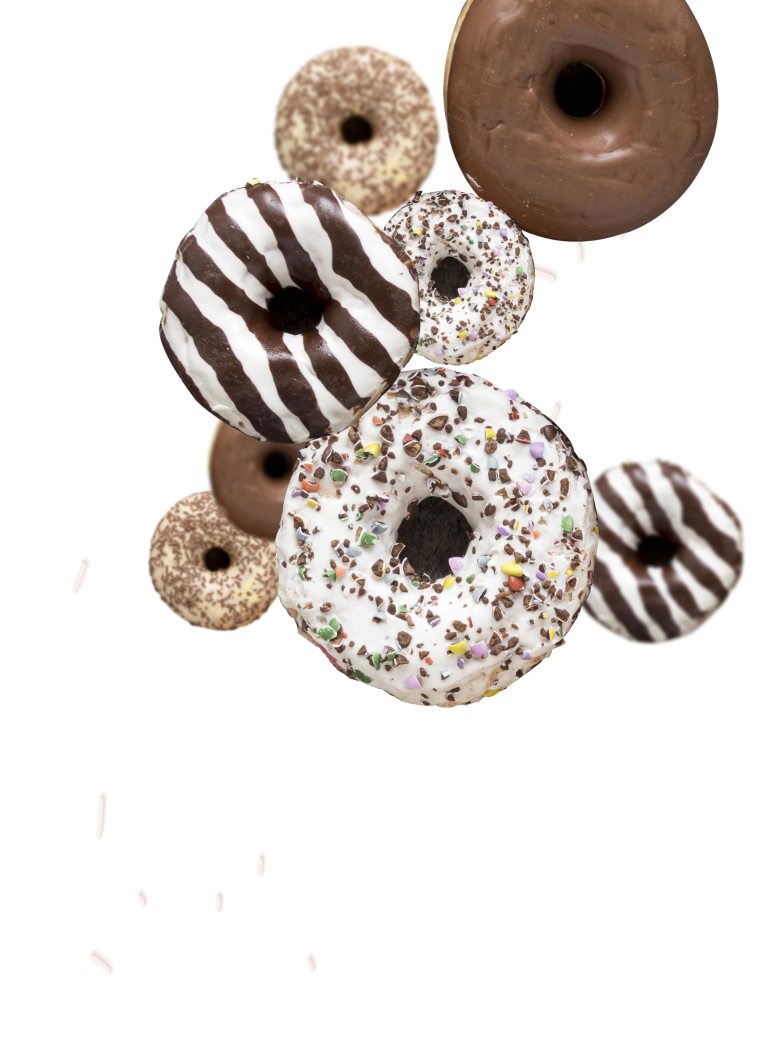
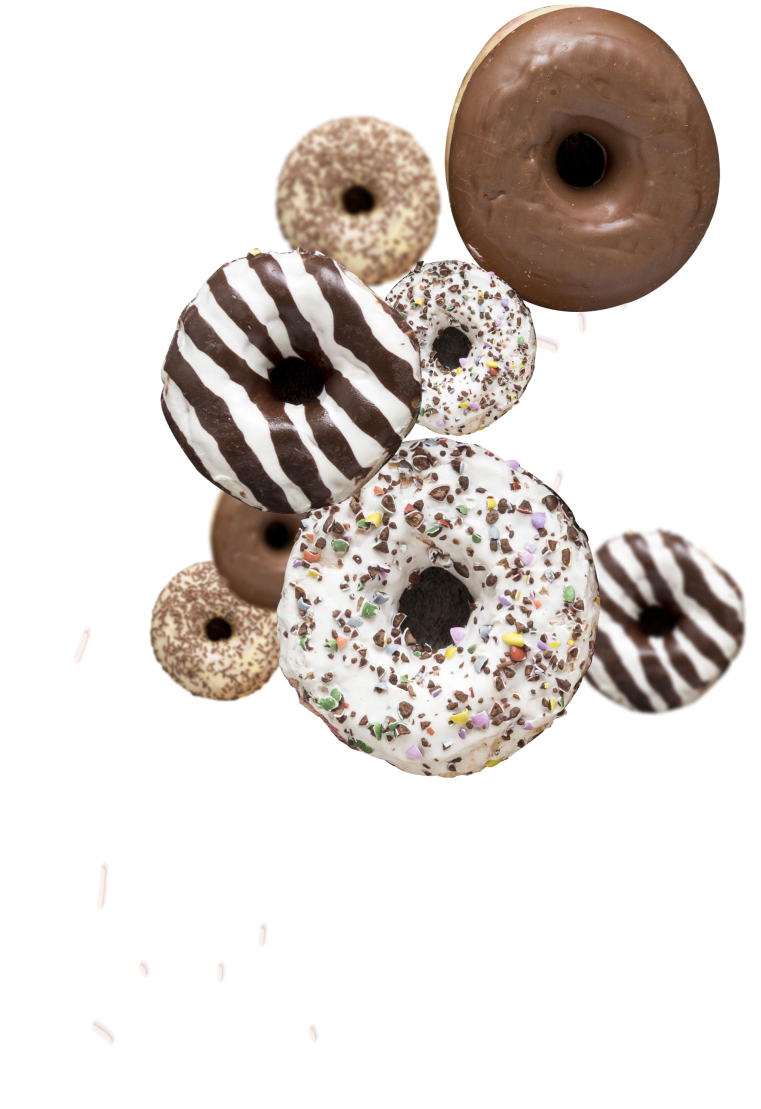
add-picture

diff --git a/src/sass/section/_header.scss b/src/sass/section/_header.scss
@@ -1,4 +1,64 @@
-.header {}
+.header {
+    padding-top: 0;
+
+    @media screen and (min-width: 1280px) {
+        padding-bottom: 60px;
+    }
+
+    // mobile screens
+    background-image: url(../images/header/donuts_group-mob-1x.png);
+    background-repeat: no-repeat;
+    background-position: -12px -51px;
+
+    @media screen and (max-width: 767.98),
+    (min-device-pixel-ratio: 2),
+    (-webkit-min-device-pixel-ratio: 2),
+    (min-resolution: 192dpi),
+    (min-resolution: 2dppx) {
+        background-image:
+            url(../images/header/donuts_group-mob-2x.png);
+        background-position: -12px -51px;
+        background-size: 130px;
+    }
+
+    // tablet screens
+    @media screen and (min-width: 768px) {
+        background-image:
+            url(../images/header/donuts_group-tab-1x.png);
+        background-position: top -35px right 117px;
+        background-size: 378px;
+
+
+        @media (min-device-pixel-ratio: 2),
+        (-webkit-min-device-pixel-ratio: 2),
+        (min-resolution: 192dpi),
+        (min-resolution: 2dppx) {
+            background-image:
+                url(../images/header/donuts_group-tab-2x.png);
+        }
+
+
+    }
+
+    // desktop screens
+    @media screen and (min-width: 1280px) {
+        background-image:
+            url(../images/header/donuts_group-desk-1x.png);
+        background-position: top -143px right -65px;
+        background-size: 661px;
+
+
+        @media (min-device-pixel-ratio: 2),
+        (-webkit-min-device-pixel-ratio: 2),
+        (min-resolution: 192dpi),
+        (min-resolution: 2dppx) {
+            background-image:
+                url(../images/header/donuts_group-desk-2x.png);
+        }
+
+
+    }
+}
 
 // випадаюча минюшка
 
@@ -64,7 +124,7 @@
     display: flex;
     justify-content: center;
     margin-bottom: 16px;
-    margin-top: 16px;
+    padding-top: 40px;
 
 
     @media screen and (min-width: 768px) {
@@ -96,6 +156,7 @@
     display: none;
 
     @media screen and (min-width: 1280px) {
+        margin-left: 55px;
         display: flex;
         gap: 20px;
     }
@@ -109,7 +170,6 @@
     color: var(--primary-text-color);
 
     @media screen and (min-width: 1280px) {
-        margin-bottom: 32px;
         font-size: 18px;
         line-height: calc(22/18);
     }
@@ -152,7 +212,7 @@
     font-weight: 400;
     font-size: 30px;
     margin-bottom: 8px;
-    min-width: 224px;
+    width: 224px;
     line-height: calc(38/30);
     text-align: center;
     color: var(--primary-text-color);

diff --git a/src/sass/base/_base.scss b/src/sass/base/_base.scss
@@ -16,15 +16,18 @@ img {
   width: 100%;
   height: auto;
 }
+
 body {
   background-color: var(--primary-bg-color);
   color: var(--primary-text-color);
   font-family: 'Montserrat', sans-serif;
   letter-spacing: 0.03em;
+
   &.no-scroll {
     overflow: hidden;
   }
 }
+
 .visually-hidden {
   position: absolute;
   width: 1px;
@@ -42,36 +45,43 @@ body {
 .section {
   padding-top: 16px;
   padding-bottom: 16px;
+
   @media screen and (min-width: 767.98px) {
     padding-top: 40px;
     padding-bottom: 40px;
   }
 }
+
 .container {
   margin-right: auto;
   margin-left: auto;
   padding-left: 20px;
   padding-right: 20px;
+
   @media screen and (min-width: 320px) {
     max-width: 320px;
   }
+
   @media screen and (min-width: 768px) {
     max-width: 768px;
     padding-left: 20px;
     padding-right: 20px;
   }
+
   @media screen and (min-width: 1280px) {
     max-width: 1280px;
     padding-left: 15px;
     padding-right: 15px;
   }
 }
+
 .subtitle {
   font-family: 'Caveat Brush';
   font-size: 24px;
   line-height: calc(30 / 24);
   text-align: center;
   color: var(--primary-text-color);
+
   @media screen and (min-width: 1280px) {
     font-size: 36px;
   }

diff --git a/src/partials/header.html b/src/partials/header.html
@@ -1,4 +1,4 @@
-<header class="header">
+<header class="header section">
   <div class="container">
     <div class="burger-menu m-burger">
       <!-- логотип сайту -->
